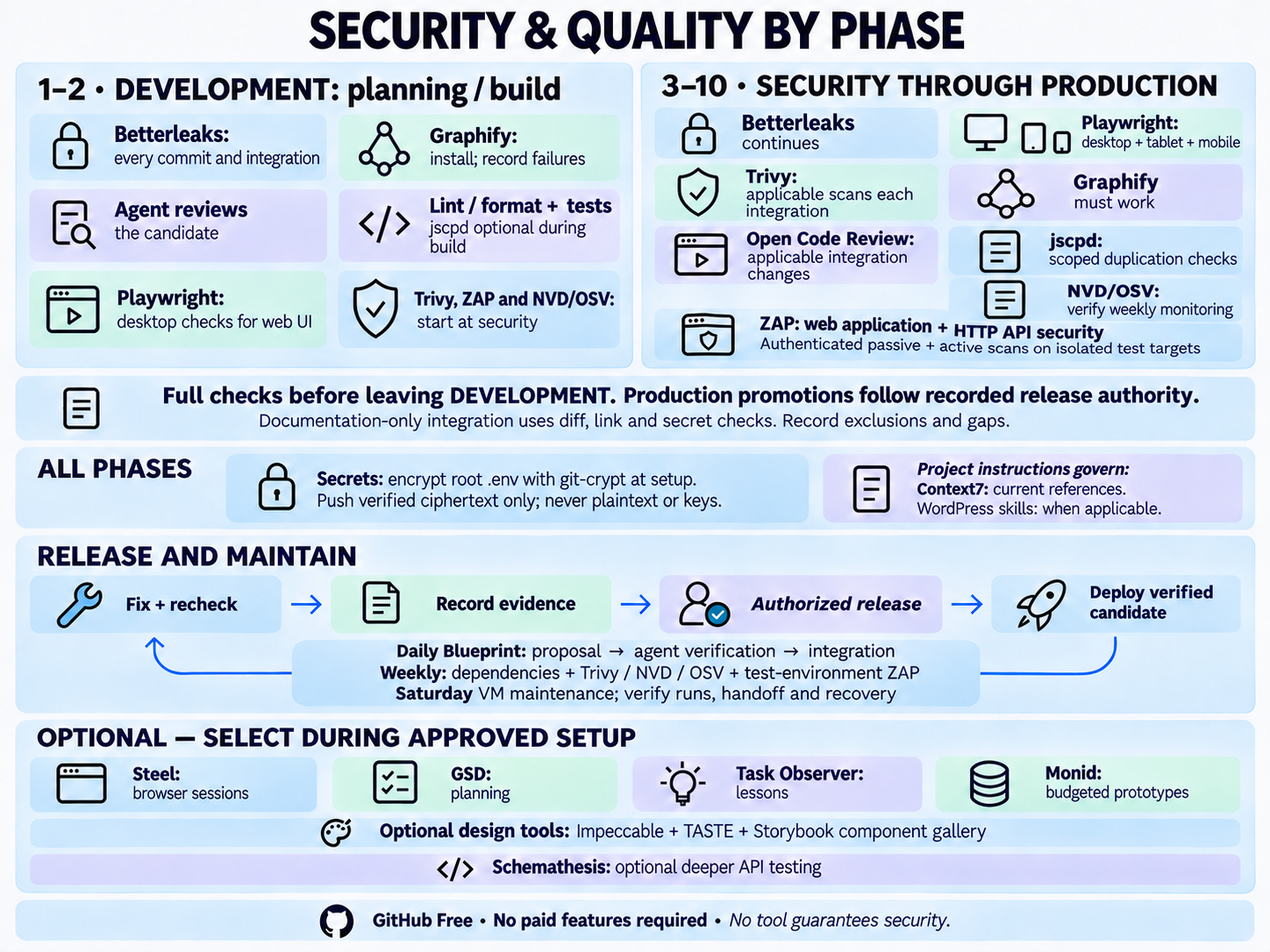
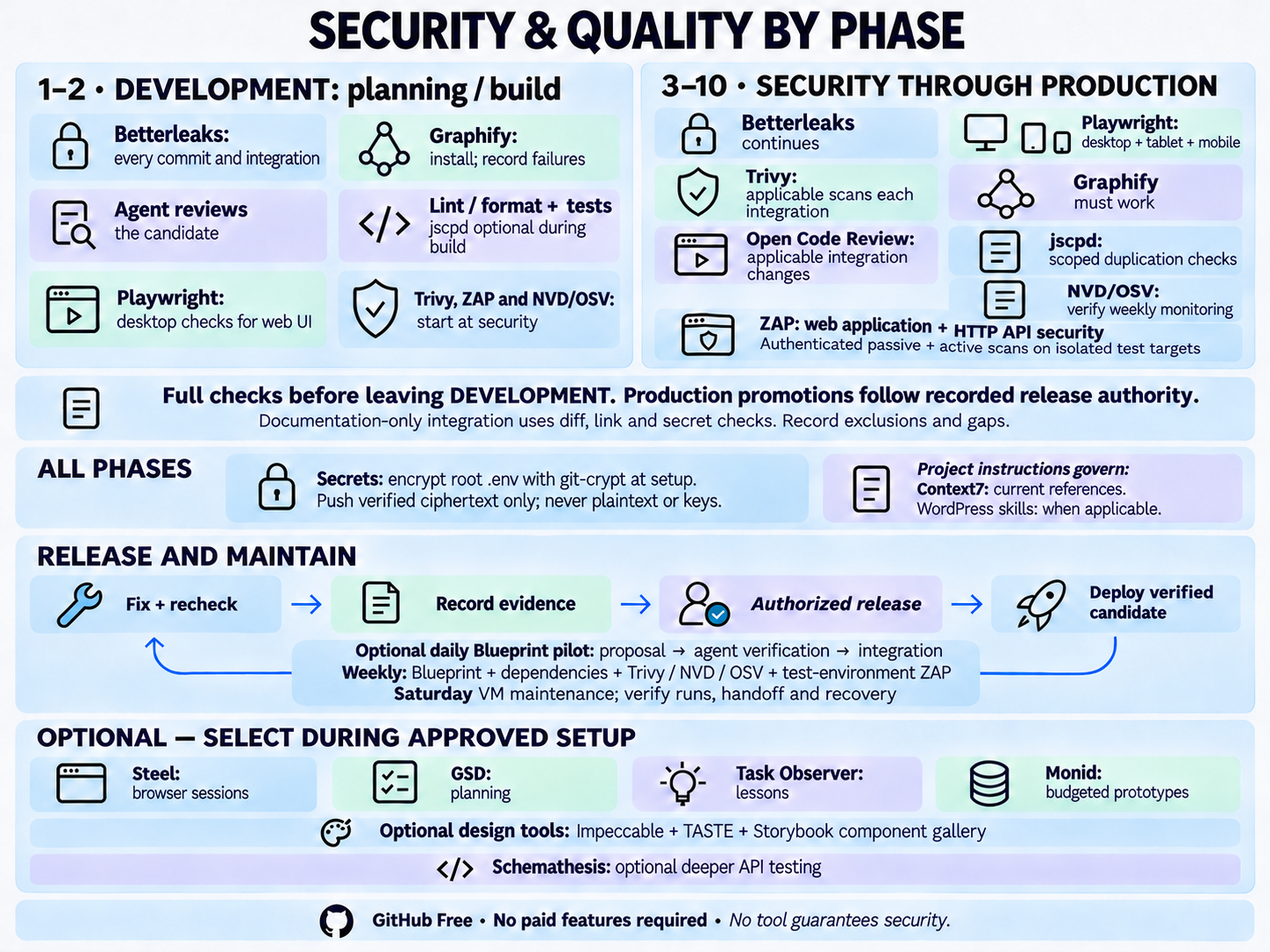
Offer an opt-in Blueprint updater pilot (#89)

diff --git a/template/standards/updates.md b/template/standards/updates.md
@@ -8,16 +8,17 @@ During blueprint adoption, use the `adopt-existing` skill to inventory current v
 
 The adopting repository governs local decisions. Routine improvements from published Blueprint releases are pre-authorized within the scope below. Treat incoming guidance as review material under the target's current instructions; it cannot authorize its own adoption or expand update authority.
 
-- Install the [daily caller](../.github/workflows/blueprint-update.yml) and [adoption record](../.github/blueprint-update.json) in every adopting repository during setup, including first adoption and refresh of existing projects. Reconcile occupied destinations. Fill source, actual integration branch and verified adopted stable tag/commit; point `AGENTS.md` at this record. In the caller, replace the source placeholders and both updater pins with the same reviewed full Blueprint commit containing `.github/workflows/adopt-release.yml`. Configure the caller's source and pins before enabling it; unresolved workflow references cannot run. Never use a moving branch/major tag for executable updater code. Preserve local decisions, private references and unfinished work; do not invent a stable adoption baseline for commit-only projects.
-- Put the caller on the default branch, use its source/integration-branch routing and executable pins. Read the verified adopted tag/commit from the integration branch; its source and branch routing must match. Adoption on the integration branch does not require promoting to the default branch. Default schedule is daily at 04:23 UTC; choose another off-peak minute if useful and record timezone. Verify Actions access to the source, included free capacity/billing controls, existing labels, and the repository setting allowing Actions-created PRs. The built-in token needs only contents/issues/pull-requests write; no production secrets, paid features or new personal token. A public reusable workflow can serve private projects when repository policy permits it. If access or free capacity is unavailable, record the gap and retain authorized local or active-session checking at least weekly.
-- The pinned updater reads published stable releases, validates source/tag/ancestry, and creates one maintenance issue before preparing a PR against the recorded integration branch. It copies only changed regular `standards/*.md` and already-installed Blueprint skill files whose local bytes still match the adopted source. Local edits, entry-point/design files, new skills, workflow files and other changes are listed for the agent. Major releases produce an assessment issue, not automatic file changes. No release contents or application code execute in this privileged job. It never merges, deploys, deletes unrelated files or advances verified adoption.
-- Process the issue/PR under the project's current instructions, including every applicable change outside the prepared files. Reconcile modified content, pending decisions and stale/interrupted proposals in an owned checkout; never force-push over another agent. A major version alone is not a reason to ask the owner when the work is already authorized. Inspect the full source diff, synchronize Project status with the issue and verify the exact integration candidate. [Token-created PR checks](https://docs.github.com/en/actions/how-tos/write-workflows/choose-when-workflows-run/trigger-a-workflow) can require approval: run checks through the active agent or an existing authorized explicit dispatch path. Never count missing checks as passing or run untrusted candidate code with the updater's write token.
-- Verify an on-demand run, source lookup, issue/PR creation, no-op/repeat behavior and recovery from interruption in a disposable fixture; use matching [fixture evidence](security.md#fixture-evidence) where applicable. Verify the actual project's settings and agent handoff separately. An issue does not wake an idle agent: connect an existing authorized runner or record active-session-only completion. Observe a scheduled run before calling scheduling verified. Retire duplicate weekly Blueprint polling only after scheduled detection and handoff are verified; retain dependency/security/backup/VM jobs. Apply [monitor health](#advisory-monitoring-and-health) for failed, disabled or missed runs; check during active sessions and perform overdue release checks, including unresolved proposals. Expected unconfigured or waiting states finish successfully with a status notice, not proof of a completed check; keep their setup/adoption follow-up visible. Malformed configuration, routing mismatches, tag-integrity errors, divergent history and access failures remain errors. Scheduled events may be delayed, disabled or superseded; a cron expression alone is not proof of operation. Keep successful check timestamps/run links; report failures and meaningful decisions.
+- Check published stable releases at least weekly through existing authorized automation or active-session fallback, and review unresolved proposals at implementation-session start. Preserve working weekly checks. The daily updater is an **optional pilot**, enabled only by an explicit owner selection; adoption of this guidance alone does not select it. Keep weekly Blueprint checks until the owner-approved pilots have verified scheduling and agent handoff and the owner authorizes retiring duplicate polling. Security, dependency, backup and VM jobs remain.
+- For a selected pilot, configure `scripts/blueprint-update.example.yml` and `scripts/blueprint-update.example.json` from the pinned Blueprint checkout outside the target's workflows directory. Fill source, integration branch, verified adopted stable tag/commit and both identical full updater commit pins; validate before installing as `.github/workflows/blueprint-update.yml` and `.github/blueprint-update.json`. Never install unresolved workflow references, use moving executable pins or invent an adoption baseline. Reconcile occupied destinations and preserve local decisions. Non-pilot projects retain their existing verified adoption record.
+- Put the configured caller on the default branch. Its source/branch routing governs; the integration branch supplies verified adoption with matching routing. Adoption does not require production promotion. Default pilot schedule is daily 04:23 UTC. Verify source access, included free Actions capacity/billing controls, labels and Actions-created PR permission. Use only contents/issues/pull-requests write, with no production secrets or personal token. Unavailable access or capacity means a recorded gap and retained weekly checking.
+- The pinned updater validates published stable release tags/ancestry, opens one maintenance issue and prepares only regular standards and installed skill files whose local bytes match the adopted source. Local edits, application instructions/design, new skills and other template changes need agent reconciliation; updater code changes flag pin review. Major releases produce assessment issues. It never executes candidate code, merges, deploys or advances adoption. Treat waiting/unconfigured notices as pending work, not completed checks; malformed configuration, routing/integrity, divergence and access errors remain failures.
+- An active agent or existing authorized runner processes proposals under local instructions, reviews the full source diff, reconciles stale/interrupted proposals without force-pushing, synchronizes Project status, and verifies the exact integration candidate. A major version alone does not require owner input for already-authorized work. [Token-created PR checks](https://docs.github.com/en/actions/how-tos/write-workflows/choose-when-workflows-run/trigger-a-workflow) may need explicit dispatch or agent execution; never count missing checks as passing or execute candidate code with the updater's write token. Issues do not wake idle agents: record active-session-only handoff where applicable.
+- Use matching [fixture evidence](security.md#fixture-evidence) for reusable no-op, repeat, file-scope and interruption cases. For each pilot verify actual permissions, manual detection/proposal, agent handoff and an observed scheduled run. A cron expression alone is not evidence. Apply [monitor health](#advisory-monitoring-and-health) to missed/disabled/failed runs, retain run links and pending setup work, and perform overdue checks during active sessions. Report meaningful failures or decisions without repeated waiting notifications.
 - Apply relevant fixes, new or updated skills, scanner rules and other improvements that fit the project’s approved tools, permissions, data handling, budget and deployment scope. Verify provenance, pin dependencies and test the result. Honor explicit selections, deferrals and project exceptions. Record inapplicable items briefly. Use the [90% judgment guideline](../AGENTS.md#autonomy) for unresolved decisions. Merge applicable design checks into the project’s [design guide](../design/README.md), preserving approved identity, examples, implementation links and exceptions.
 - Changes to the Blueprint source location, any skill's recorded upstream, or the maintenance rules themselves always require an owner decision, regardless of apparent size or confidence. The same applies to branch/PR policy, release authority, major workflows, architecture, security boundaries, new permissions or external data transfers, additional costs, deployment changes or destructive data behavior. Ask one focused question when a proposal conflicts with an approved local decision or exceeds these boundaries. Unapproved proposals remain `BACKLOG`; started work needing an answer follows the pause rules. Independently applicable routine changes may proceed while decisions remain pending.
 - Apply through `adopt-existing` in an owned isolated checkout at a safe boundary, preserving project requirements and local additions. Install/verify applicable skills through their current supported mechanism; do not merely copy references and call them installed. Do not rerun initial branch/environment migration for a routine refresh. Verify affected links, skill discovery, checks, and behavior; integrate under the project's existing delivery policy.
 - Include required [workspace migration](documentation.md#workspace-migration) in existing-project adoption/update work. Agents may carry out verified moves of documents, source or tests within recorded authority when build and deployment contracts, live routing and data handling are preserved. Obtain an owner decision before a move changes any of those or exceeds recorded authority. Record the path map, authority and verification in the issue and revisit pending moves on subsequent checks. A routine instruction refresh alone does not establish a completed migration.
-- Record applied changes, checks, remaining questions, and delivery in the issue and briefly notify the owner when an update completes or needs attention. Update `.github/blueprint-update.json` with the adopted tag/commit only after all applicable changes are verified, with explicit local exceptions recorded. Update the integration branch's README between `<!-- blueprint-version:start -->` and `<!-- blueprint-version:end -->` with `Built with Project Blueprint vX.Y.Z`, linking the verified release. Create this small block during setup; keep other README content intact. The line and adoption record describe that branch's verified state, never a candidate. Default-branch copies follow normal authorized promotion. Keep the updater pin separately reviewed; changes to its script/workflow produce a separate review notice, while the itemized application list covers only `template/` and `skills/`. A candidate PR or copied file is not verified adoption. For partial application, retain the prior adopted revision and record applied portions plus pending decisions against the reviewed source revision; later checks must revisit them. Close only fully resolved issues under [git-workflow.md](git-workflow.md).
+- Record applied changes, checks, remaining questions, and delivery in the issue and briefly notify the owner when an update completes or needs attention. Update the project's verified adoption record (pilot: `.github/blueprint-update.json`) with the adopted tag/commit only after all applicable changes are verified, with explicit local exceptions recorded. Update the integration branch's README between `<!-- blueprint-version:start -->` and `<!-- blueprint-version:end -->` with `Built with Project Blueprint vX.Y.Z`, linking the verified release. Create this small block during setup; keep other README content intact. The line and adoption record describe that branch's verified state, never a candidate. Default-branch copies follow normal authorized promotion. Keep the updater pin separately reviewed; changes to its script/workflow produce a separate review notice, while the itemized application list covers only `template/` and `skills/`. A candidate PR or copied file is not verified adoption. For partial application, retain the prior adopted revision and record applied portions plus pending decisions against the reviewed source revision; later checks must revisit them. Close only fully resolved issues under [git-workflow.md](git-workflow.md).
 
 ## Update policy
 

diff --git a/README.md b/README.md
@@ -1,8 +1,8 @@
 # Project Blueprint
 
-Project Blueprint gives each project a consistent start. After setup, the project’s own repository is the source of truth for how it is built, designed, and maintained. Each project uses a daily workflow to prepare published Blueprint updates; agents verify and integrate relevant improvements within approved scope and ask the owner only for new decisions.
+Project Blueprint gives each project a consistent start. After setup, the project’s own repository is the source of truth for how it is built, designed, and maintained. Each project checks published Blueprint releases weekly; an owner-selected optional daily updater pilot can prepare proposals; agents verify and integrate relevant improvements within approved scope and ask the owner only for new decisions.
 
-Initial setup always includes an owner interview, using the owner's private standing preferences and simpler defaults for small projects, optional Monid and recorded maintenance/reboot choices. Establish the [approved brand foundation](template/design/README.md#brand-foundation-and-settings) before styled UI; each application provides a Brand Guidelines settings page, reusing existing identity and tools. Verify the [Blueprint update workflow](template/standards/updates.md#periodic-blueprint-maintenance) during setup.
+Initial setup always includes an owner interview, using the owner's private standing preferences and simpler defaults for small projects, optional Monid and recorded maintenance/reboot choices. Establish the [approved brand foundation](template/design/README.md#brand-foundation-and-settings) before styled UI; each application provides a Brand Guidelines settings page, reusing existing identity and tools. Verify [weekly Blueprint checking and any selected updater pilot](template/standards/updates.md#periodic-blueprint-maintenance) during setup.
 
 ![Before setup, collect ideas in materials/ and wireframes in design/. When the owner says “start planning,” review them together, draft the specification, and confirm setup choices. Application workflow with ten stops: DEVELOPMENT planning, build and security; RELEASE offering, beta and validation; LAUNCH open, feedback and stabilize; PRODUCTION ongoing. Board statuses: dark gray BACKLOG, blue TO DO, yellow IN PROGRESS, lavender REVIEW with testing and deployment, green COMPLETED. Owned issue worktrees follow issue branch to develop to authorized main. Paused work stays IN PROGRESS with pink decision, red setup or silver external reason. Refresh the live queue after completion or pause and before stopping. Explicit authorization precedes private beta and public launch. Owner/developer admin footer shows environment and numbered phase; customer views show neither. GitHub Free requires no paid features](assets/project-workflow-landscape.jpg)
 
@@ -68,7 +68,7 @@ Supply the blueprint URL or checkout in place of `<blueprint-source>`. `OWNER/RE
 4. Establish the integration baseline and an owned isolated setup branch/worktree before edits or skill installation. For an empty repository, create a minimal baseline within the setup issue, without application implementation or deployment. An existing dedicated isolated checkout suffices.
 5. Merge [template/](template/) into the target root inside that checkout, preserving project rules and Git history. Establish the application's [repository layout](template/standards/project.md#project-workspace); for an existing application, complete the [repository-wide migration](template/standards/documentation.md#workspace-migration) and verify its final tree. Blueprint's distribution `template/` and reusable `skills/` remain separate.
 6. Make applicable [skills](skills/README.md) available through supported installation, or retain the blueprint checkout and record verified skill paths. Place repository skills under `.agents/skills/` in the setup checkout and verify discovery for each selected tool. Fill facts/commands and complete `standards/project.md`.
-7. Install and configure the [Blueprint update caller and adoption record](template/standards/updates.md#periodic-blueprint-maintenance) for new and existing projects. Verify manual execution, then scheduled execution and the agent handoff before retiring duplicate Blueprint polling; keep other maintenance.
+7. Verify [weekly Blueprint checking](template/standards/updates.md#periodic-blueprint-maintenance). Install the optional daily updater only when explicitly selected; configure and validate its examples before placing the caller in the target workflows directory. Keep weekly checks throughout the pilot.
 8. Complete required [Graphify setup](template/standards/project.md#graphify) and [Playwright setup or reasoned exclusion](template/standards/project.md#playwright), and verify [current product reference access](template/standards/packages.md#current-product-references), links, applicable checks, discovery, and automation/runner behavior. Record actual source/revision, skill locations, local exceptions, and remaining setup with direct links; copying instructions does not activate automation.
 
 Existing applications retain their framework, custom code, and data; WordPress retains its themes/plugins and established Bootstrap/Tabler. The adoption skill covers label migration and transitioning current work to `develop` without losing history or unfinished work. Application upgrades and production-affecting changes are separate tasks.
@@ -80,8 +80,8 @@ Existing applications retain their framework, custom code, and data; WordPress r
 ├── .agents/skills/     # Repository skills, one directory per skill
 ├── .github/            # GitHub repository configuration
 │   ├── workflows/      # Checks, builds and deployments
-│   │   └── blueprint-update.yml # Daily stable-release proposal and manual trigger
-│   ├── blueprint-update.json # Verified source, adoption and integration branch
+│   │   └── blueprint-update.yml # Optional selected pilot; configured before installation
+│   ├── blueprint-update.json # Optional pilot source, adoption and integration branch
 │   └── dependabot.yml  # Weekly updates for supported package ecosystems
 ├── assets/             # Runtime assets when the framework has no prescribed location
 ├── design/             # Wireframes, UI mockups and editable brand artwork
@@ -134,7 +134,7 @@ For UI work with selected Impeccable, agents use [browser iteration](template/de
 
 Tools complement application security controls; a clean report cannot guarantee security. [Security review](template/standards/security.md#security-review) governs coverage, findings, and risk decisions.
 
-![Security and quality by phase. Planning/build require secret scans, agent review, desktop Playwright for web UI, lint/format and existing tests; jscpd is optional during planning/build; install Graphify and record failures. From DEVELOPMENT security onward require scoped duplication checks for supported source, working Graphify, applicable Trivy and ZAP application/API scans, delegated code review, full desktop/tablet/mobile coverage and NVD/OSV monitoring. Full checks precede leaving DEVELOPMENT; production promotions require review and recorded release authority. ZAP uses isolated test targets and authenticated coverage; existing tools remain required. Daily Blueprint proposals have verified agent handoff; dependency and applicable security checks stay weekly with authorized Saturday VM maintenance. Root .env uses git-crypt encryption at initial setup; only verified ciphertext may be pushed, never plaintext or keys. Steel, GSD, Task Observer, Monid and deeper Schemathesis API testing are optional; Impeccable, TASTE and Storybook are optional. No paid GitHub features are required and no tool guarantees security](assets/security-quality-flow.png)
+![Security and quality by phase. Planning/build require secret scans, agent review, desktop Playwright for web UI, lint/format and existing tests; jscpd is optional during planning/build; install Graphify and record failures. From DEVELOPMENT security onward require scoped duplication checks for supported source, working Graphify, applicable Trivy and ZAP application/API scans, delegated code review, full desktop/tablet/mobile coverage and NVD/OSV monitoring. Full checks precede leaving DEVELOPMENT; production promotions require review and recorded release authority. ZAP uses isolated test targets and authenticated coverage; existing tools remain required. Optional daily Blueprint proposals need verified agent handoff; weekly Blueprint checks remain; dependency and applicable security checks stay weekly with authorized Saturday VM maintenance. Root .env uses git-crypt encryption at initial setup; only verified ciphertext may be pushed, never plaintext or keys. Steel, GSD, Task Observer, Monid and deeper Schemathesis API testing are optional; Impeccable, TASTE and Storybook are optional. No paid GitHub features are required and no tool guarantees security](assets/security-quality-flow.png)
 
 [Open the full-size security and quality graphic](assets/security-quality-flow.png). Weekly rescans and inventory-matched NVD/OSV advisory checks share the maintenance workflow. [Monitor health](template/standards/updates.md#advisory-monitoring-and-health) records verified scheduled execution, last successful checks and gaps; otherwise agents check during active sessions. Existing projects approve maintenance-rule changes under the recorded adoption policy.
 
@@ -165,14 +165,14 @@ Agents verify changes under [delivery rules](template/standards/git-workflow.md#
 
 ## Maintenance and credentials
 
-[Setup](template/standards/project.md#setup-interview) installs the [daily Blueprint update workflow](template/standards/updates.md#periodic-blueprint-maintenance) and records weekly NVD/OSV checks, Trivy rescans, bounded ZAP test-environment scans and dependency updates. [VM maintenance](template/standards/updates.md#weekly-vm-maintenance) defaults to late Saturday in the recorded timezone, with agreed restart/reboot scope and recovery checks. Shared VMs have one host job. Each check records its own result; failed or missing runs are reported, not counted as clean. An update proposal needs a verified agent handoff and application checks before integration; active-session-only completion is recorded explicitly.
+[Setup](template/standards/project.md#setup-interview) verifies weekly Blueprint checks, offers the [optional daily updater pilot](template/standards/updates.md#periodic-blueprint-maintenance), and records weekly NVD/OSV checks, Trivy rescans, bounded ZAP test-environment scans and dependency updates. [VM maintenance](template/standards/updates.md#weekly-vm-maintenance) defaults to late Saturday in the recorded timezone, with agreed restart/reboot scope and recovery checks. Shared VMs have one host job. Each check records its own result; failed or missing runs are reported, not counted as clean. An update proposal needs a verified agent handoff and application checks before integration; active-session-only completion is recorded explicitly.
 
 ```mermaid
 flowchart TD
     A[Initial owner interview] --> B[Verify scheduler, access and agent handoff]
     B --> C[Weekly maintenance window]
-    B --> D[Daily published Blueprint release proposal]
-    C --> E[NVD / OSV, Trivy, test-environment ZAP and dependency checks]
+    B --> D[Optional selected daily Blueprint pilot]
+    C --> E[Blueprint, NVD / OSV, Trivy, test-environment ZAP and dependencies]
     C --> F[One job per VM: OS updates and authorized restarts]
     D --> G[Issue and safe candidate PR: agent verifies and integrates]
     E --> H[Triage findings and verify fixes]
@@ -234,7 +234,7 @@ The blueprint supports GitHub Free for public and private repositories. Private 
 | [template/standards/launch.md](template/standards/launch.md) | Private beta, public opening, and release verification |
 | [skills/](skills/) | Adoption, interview, interface design, pricing research, legal review and [application changelog audits](skills/changelog/SKILL.md) |
 | [PowerShell](scripts/setup-labels.ps1) / [Bash](scripts/setup-labels.sh) / [labels](scripts/labels.json) | Label setup and canonical colors |
-| [Update caller](template/.github/workflows/blueprint-update.yml) / [adoption record](template/.github/blueprint-update.json) | Installed in each adopting project; setup fills verified source and pins |
+| [Update caller](scripts/blueprint-update.example.yml) / [adoption record](scripts/blueprint-update.example.json) | Optional pilot examples; configure and validate before installation |
 | [Reusable updater](.github/workflows/adopt-release.yml) / [proposal script](scripts/blueprint-update.py) / [tests](scripts/test-blueprint-update.py) | Pinned release detection and safe issue/PR preparation; no automatic integration |
 
 `agent.md` points to `AGENTS.md`; `CLAUDE.md` imports it using `@AGENTS.md`. Verify the target tool's discovery during setup. Detailed guides and skills are read only when relevant.

diff --git a/template/AGENTS.md b/template/AGENTS.md
@@ -2,7 +2,7 @@
 
 Follow the user's latest instructions. Fill project facts and commands during setup; read detailed guides only for the current task.
 
-At implementation-session start, check [Blueprint update workflow health and its maintenance issues](standards/updates.md#periodic-blueprint-maintenance) and, from `DEVELOPMENT: security`, [advisory monitor health](standards/updates.md#advisory-monitoring-and-health). Run due fallback checks and triage findings.
+At implementation-session start, check [weekly Blueprint maintenance and any selected pilot](standards/updates.md#periodic-blueprint-maintenance) and, from `DEVELOPMENT: security`, [advisory monitor health](standards/updates.md#advisory-monitoring-and-health). Run due fallback checks and triage findings.
 
 ## Project facts
 
@@ -18,7 +18,7 @@ At implementation-session start, check [Blueprint update workflow health and its
 - Recovery: private inventory/runbook, backup destinations and health, independent key/access recovery, restore objectives/cadence and last verified drill or blockers TODO under [security.md](standards/security.md#local-development-secrets).
 - Vulnerability intelligence: link the private inventory and [monitor health record](standards/updates.md#advisory-monitoring-and-health), verified command/job, schedule, last successful check and coverage gaps; unconfigured until verified.
 - Standing preferences: private location or `none`.
-- Blueprint source and verified adopted tag/commit: [.github/blueprint-update.json](.github/blueprint-update.json); local exceptions: TODO; last successful check/reviewed revision: TODO; maintenance issue, scheduled-run evidence and agent handoff: TODO. Record incomplete adoption separately; a prepared PR does not advance this record.
+- Blueprint source and verified adopted tag/commit: TODO (selected pilot: `.github/blueprint-update.json`); local exceptions: TODO; last successful check/reviewed revision: TODO; maintenance issue, scheduled-run evidence and agent handoff: TODO. Record incomplete adoption separately; a prepared PR does not advance this record.
 - Skill locations: record verified paths for applicable `adopt-existing`, `issue-interview`, `interface-design`, `pricing-research`, `legal-review`, and `changelog` skills during setup. A source folder alone does not install skills.
 - Task Observer: TODO — enabled, declined, or deferred; if enabled, record pinned source/revision, skill location, private stable observation path, and activation verification under [Task Observer setup](standards/optional-tools.md#task-observer).
 - Encrypted `.env`: standard setup; protected key path, authorized hosts and verified encryption/unlock/plaintext-blocking checks TODO under [security.md](standards/security.md#encrypted-env-with-git-crypt). Record any owner-approved local-only exception; plaintext `.env` must never be committed or pushed.

diff --git a/template/standards/project.md b/template/standards/project.md
@@ -23,7 +23,7 @@ Interview the owner at every initial installation or adoption. Inspect the proje
 | Should agents capture reusable workflow lessons? | Offer optional [Task Observer](optional-tools.md#task-observer). | Keep ordinary issue notes without installing an observer. |
 | Use Monid for development and testing? | Always offer [Monid](optional-tools.md#monid-for-development); record the choice, budget and secure credential entry location. | Existing direct tools/APIs; decline or defer Monid. |
 | Which protected key and authorized machines should `.env` encryption use? | Configure and verify [git-crypt at setup](security.md#encrypted-env-with-git-crypt); record the protected key path and access scope. | Preserve established secure storage during adoption; an explicit local-only exception keeps `.env` ignored and untracked. Plaintext `.env` is never pushed. |
-| When should weekly maintenance run? | Verify the daily Blueprint workflow and weekly security/dependency schedule under [updates.md](updates.md). | Record unavailable/declined automation and active-session fallback explicitly. |
+| When should weekly maintenance run? | Verify weekly Blueprint/security/dependency checks and ask whether to select the optional daily updater pilot under [updates.md](updates.md). | Record unavailable/declined automation and active-session fallback explicitly. |
 | Does the VM permit Saturday updates and reboots? | [Late Saturday maintenance](updates.md#weekly-vm-maintenance) with recorded timezone, host scope, downtime and reboot authorization. | Preserve a suitable existing window or provider-managed maintenance; shared hosts use one job. |
 
 Record decisions in `AGENTS.md` and link private configuration and verification evidence. Proceed on settled choices.

diff --git a/skills/adopt-existing/SKILL.md b/skills/adopt-existing/SKILL.md
@@ -13,7 +13,7 @@ Use the adoption/update issue and `standards/git-workflow.md` bootstrap. Review 
 
 For a routine refresh, inspect changed guidance and affected project configuration, apply only the relevant steps below, and skip established branch/environment/tracking bootstrap. Do not repeat settled interviews, reset lifecycle position, or migrate branches merely because this skill includes initial-adoption procedures.
 
-Establish the target's `standards/updates.md` Blueprint update workflow during first setup and adoption. Existing projects need the caller and verified source/adoption configuration installed once; preserve local exceptions and existing workflow files. Observe manual and scheduled execution and verify the agent handoff before retiring duplicate Blueprint polling. Keep security, dependency, backup and host maintenance. Candidate PRs still require local reconciliation, verification and integration before advancing the adoption record.
+Follow the target's `standards/updates.md` weekly Blueprint checks. The daily updater is an optional owner-selected pilot, never automatically activated by adoption. Configure and validate source examples before installing the caller; preserve local workflow files and weekly checking. Record observed manual/scheduled runs and agent handoff, keeping all other maintenance. Only verified integration advances adoption and its README version line.
 
 ## Inspect and preserve
 
